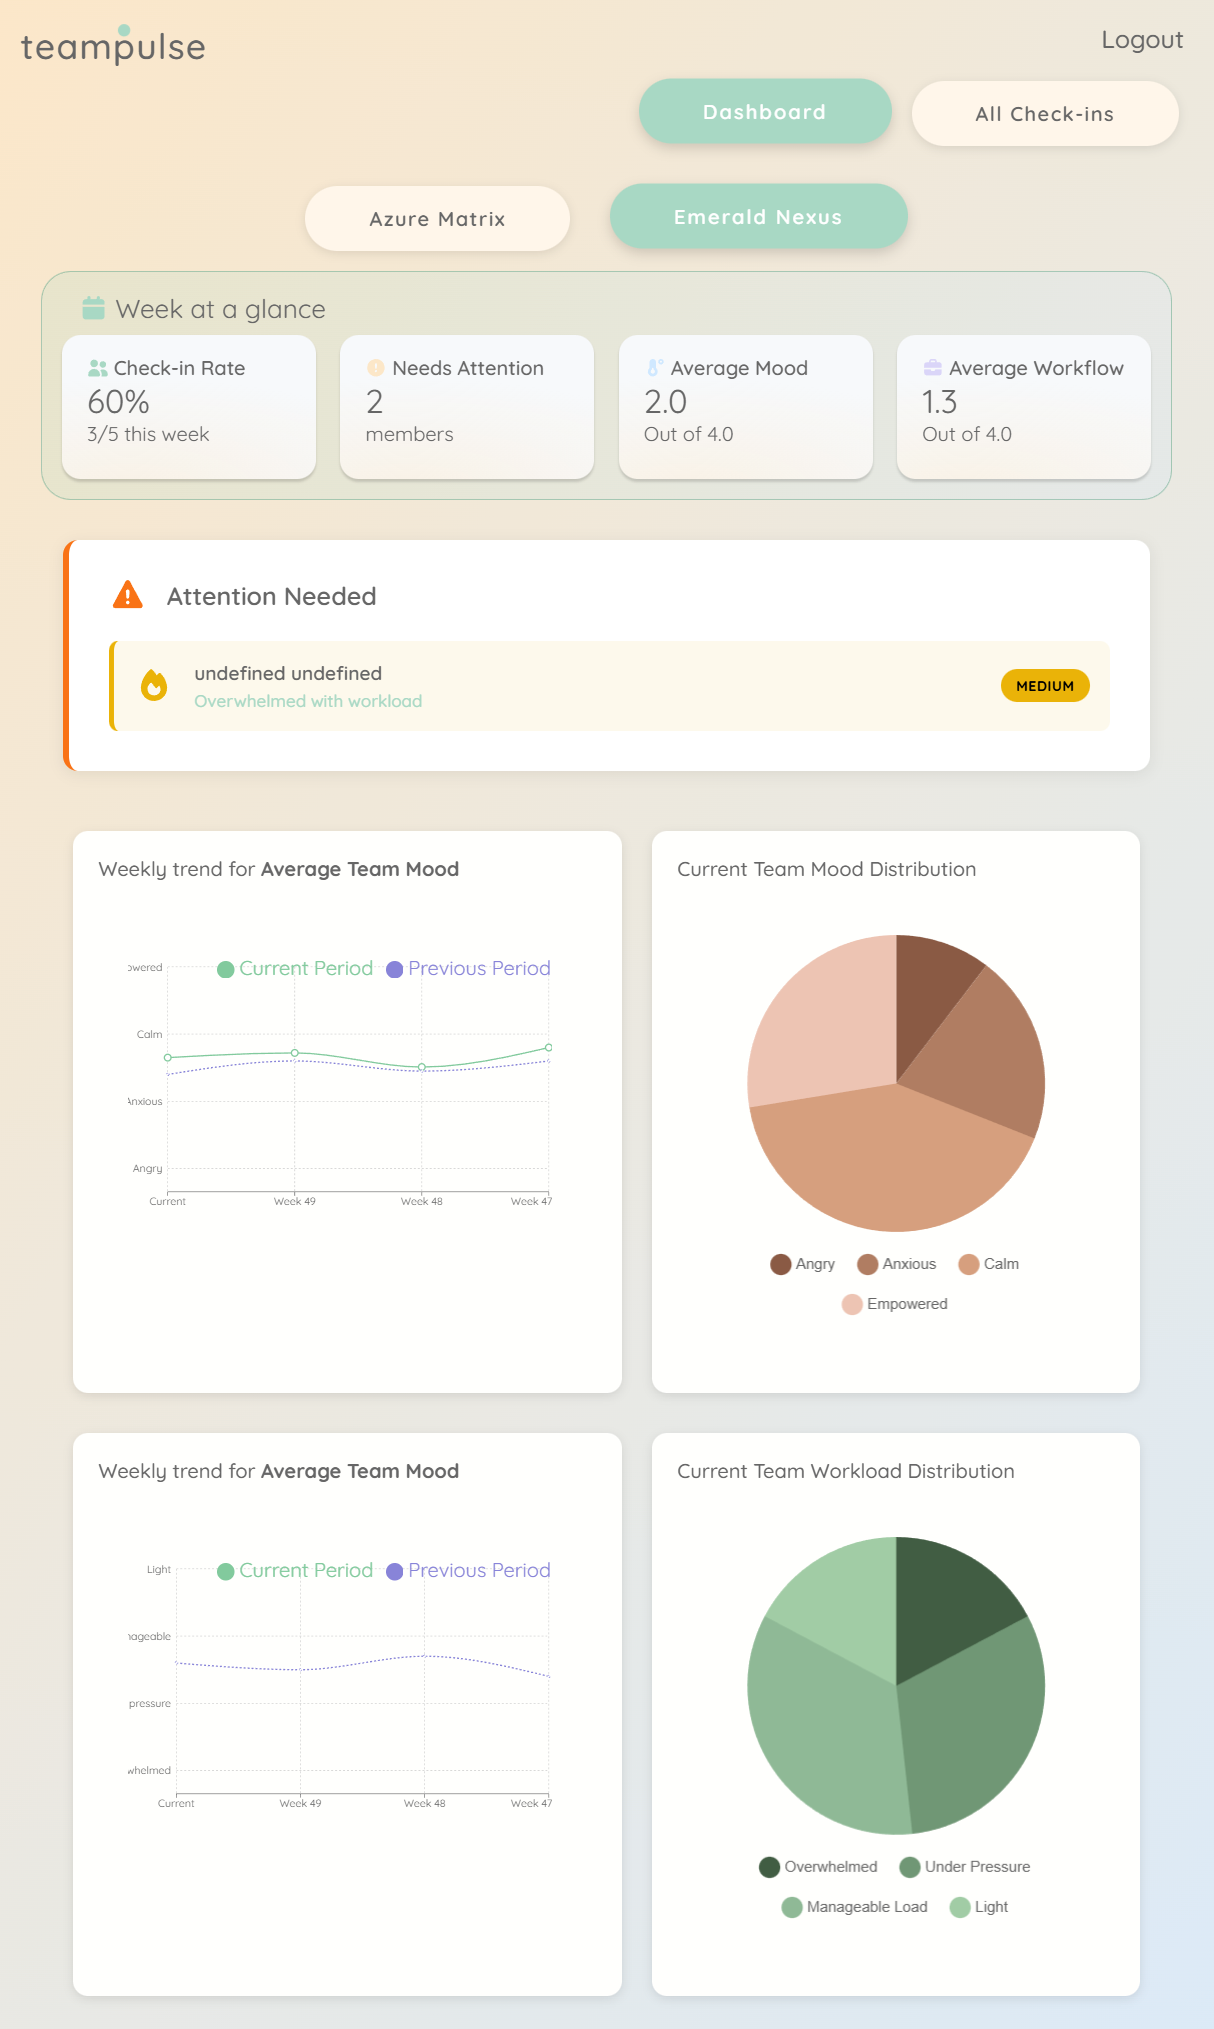
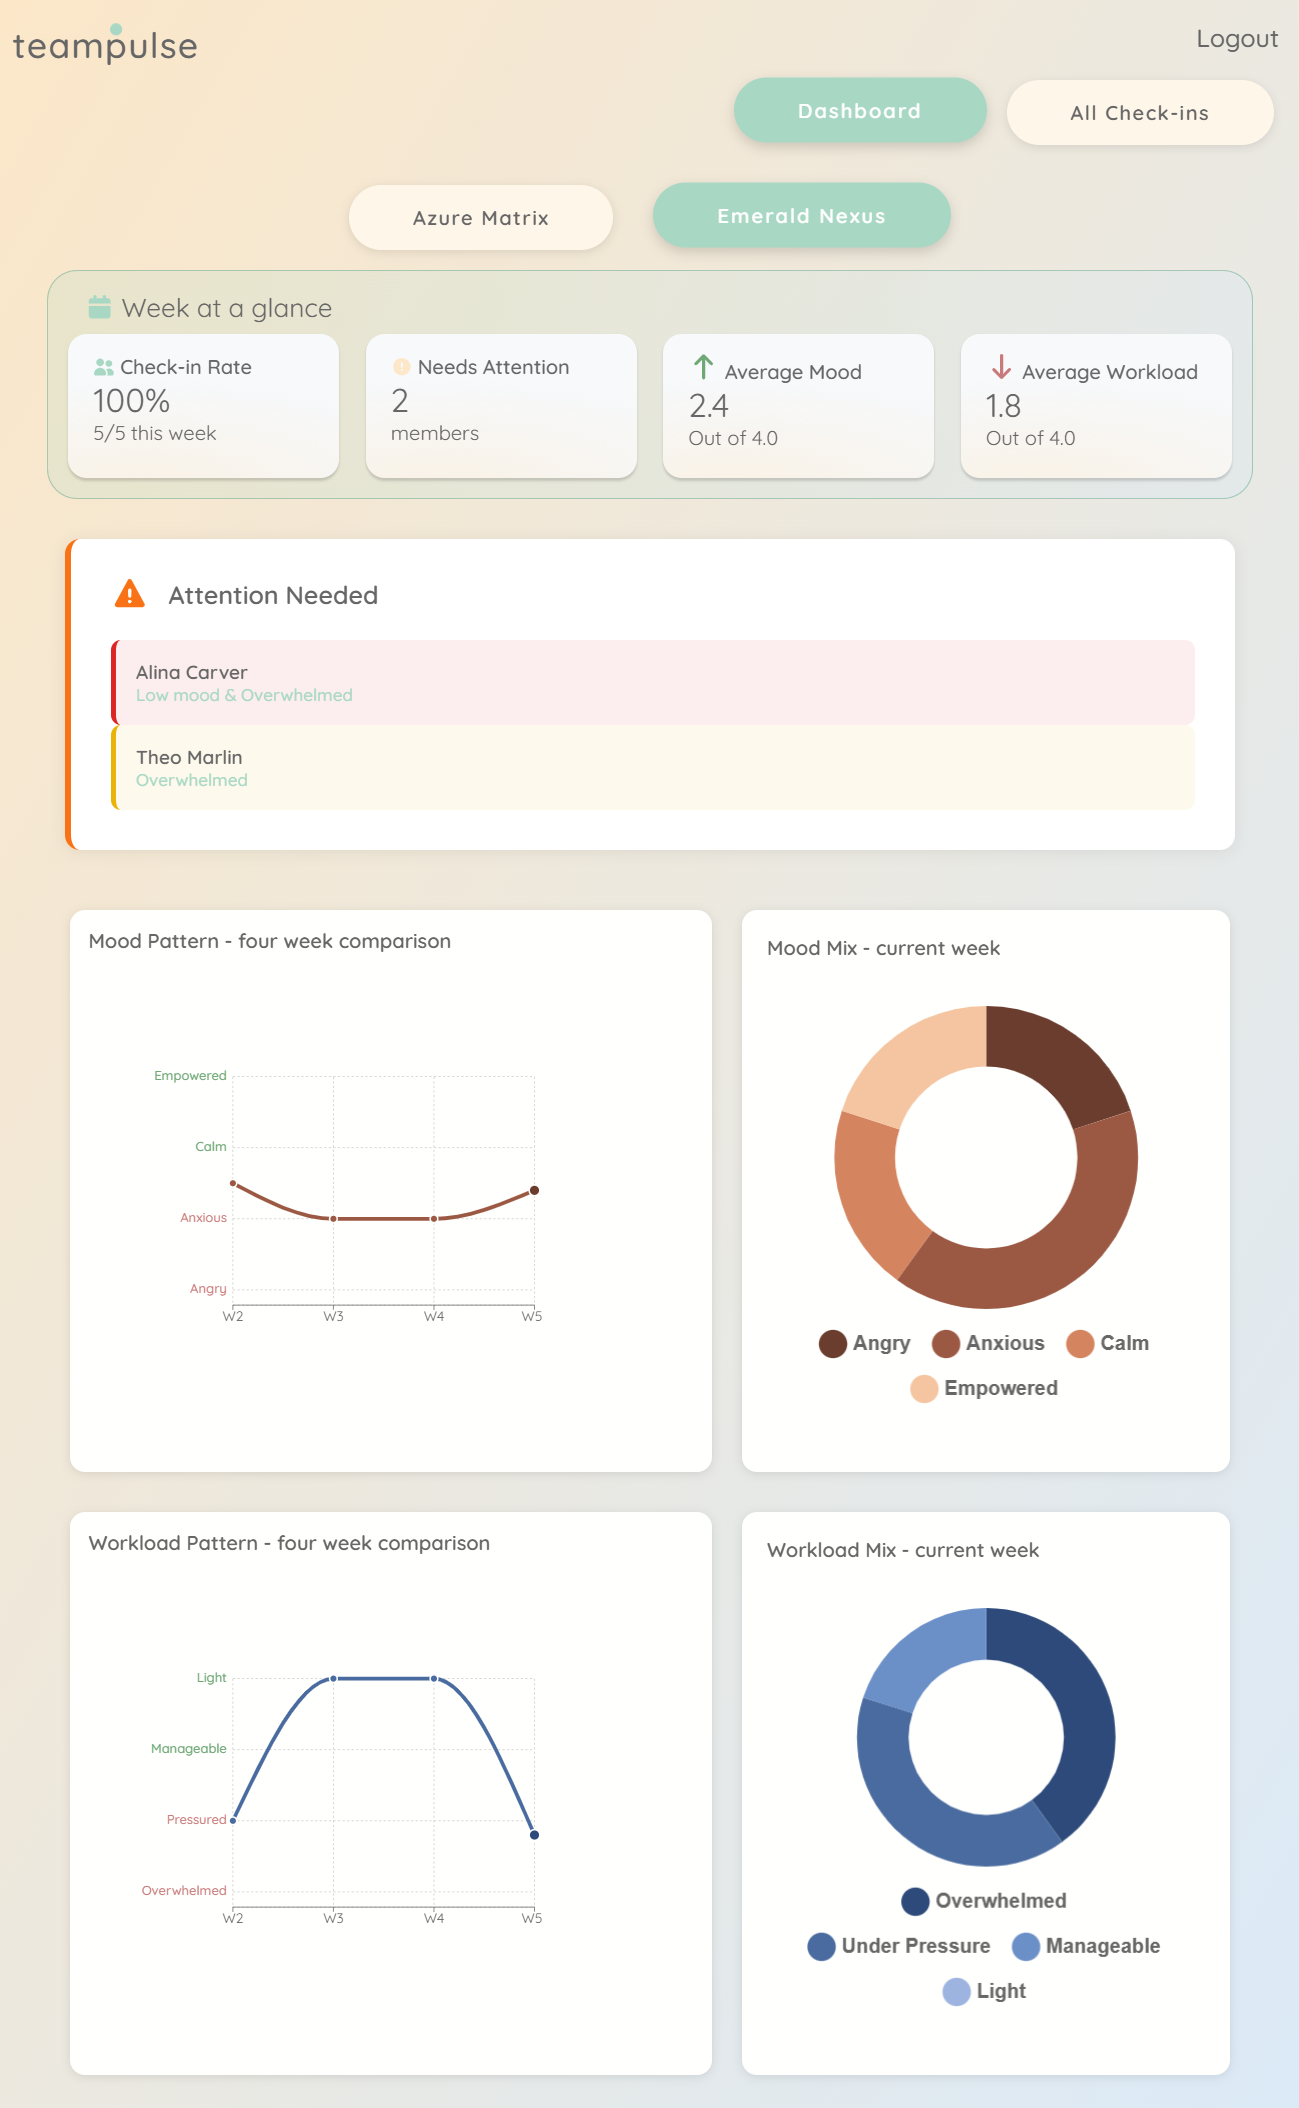
Updated group project page

diff --git a/group_project.html b/group_project.html
@@ -68,22 +68,50 @@
                     <p>When a normal user logged in, they're shown the 'Pulse' check in form. But when a manager logged in, 
                         they're shown a dashboard containing data visualisations of their team's logged data. This required
                         setting up different user roles and permissions in the backend, and then ensuring that the frontend
-                        displayed the correct information based on the user's role. Below are the 2 screenshots, for user and
+                        displayed the correct information based on the user's role. Below are screenshots, for user and
                         manager respectively.</p><br>
                     <ul style="list-style: disc; padding-left: 20px;">
                         <li>
+                            <strong>Login Page</strong>
+                            <br>
+                            <p>One logon page for both user and manager. Backend returned whether the user was a manager, and frontend displayed the appropriate view based on that information.</p><br>
+                            <img src="img/teampulse_images/00_Homepage.png" alt="Homepage screenshot" style="max-width: 100%; height: auto;"><br><br>
+                        </li><br>
+                        <li>
                             <strong>Home Page (General Mode)</strong>
                             <br>
+                            <p>Check-in form for user. Frontend designed this page with simplicity and usability in mind.</p><br>
                             <img src="img/teampulse_images/01_LandingPage_User.png" alt="User page for Pulse check in screenshot" style="max-width: 100%; height: auto;"><br><br>
+                        </li><br>
+                        <li>
+                            <strong>User Dashboard</strong>
+                            <br>
+                            <p>This was what a user would see after completing their check-in. The page would show their current user points and a graph representation of their recent check-ins.</p><br>
+                            <img src="img/teampulse_images/02_UserPage_01.png" alt="User Dashboard screenshot" style="max-width: 100%; height: auto;">
+                        </li><br>
+                        <li>
+                            <strong>User Dashboard - Details</strong>
+                            <br>
+                            <p>This page showed more detail for the user's check-ins, showing more data and user comments.</p><br>
+                            <img src="img/teampulse_images/02_UserPage_02.png" alt="User Dashboard Details screenshot" style="max-width: 100%; height: auto;">
+                        </li><br>
+                        <li>
+                            <strong>User Incentives</strong>
+                            <br>
+                            <p>This page showed the user's current points balance and their unlocked incentives.</p><br>
+                            <img src="img/teampulse_images/02_UserPage_03.png" alt="User Incentives screenshot" style="max-width: 100%; height: auto;">
                         </li><br>
                         <li>
                             <strong>Manager Dashboard</strong>
                             <br>
+                            <p>This was the manager's main view. It shows a summary of all teams they managed, the team's participation rate, trend and whether any team member required assistance.
+                                 Manager could filter by team, and could only see the team they managed.</p><br>
                             <img src="img/teampulse_images/01_LandingPage_Manager_a.png" alt="Manager Dashboard screenshot" style="max-width: 100%; height: auto;">
                         </li><br>
                         <li>
                             <strong>Manager List View of Team Pulse</strong>
                             <br>
+                            <p>This page showed check-in details which the manager could filter by team.</p><br>
                             <img src="img/teampulse_images/01_LandingPage_Manager_b.png" alt="Manager view of Team Pulse list screenshot" style="max-width: 100%; height: auto;">
                         </li>
                     </ul><br>
@@ -100,7 +128,7 @@
                     <h3>Weekly Limitations</h3><br>
                     <p>Notable challenge was in ensuring that a team member can only log their data once a week, defining
                         what a 'week' meant, and in displaying the data segregated by team as a manager can manage multiple
-                        teams. Discussion had around this topic started a lot of discussion about timezones, and what would
+                        teams. Discussions we had around this topic was centred around timezones, and what would
                      be defined as a "week". 2 people on opposite ends of the globe could be logging their Pulse at the same
                      time, and yet for one of them it's Sunday night and for the other it's Monday morning. Should the data be
                      logged against separate weeks?</p><br>
@@ -108,17 +136,43 @@
                         current week index was, JavaScript (the frontend) did not. This meant that we would had to implement this
                         in the front end, and frankly it was beginning to get very complicated. In the end, we decided to let the
                         frontend simply send the current date and time to the backend, and let the backend determine if the user had already
-                        logged their Pulse for the current week or not.
+                        logged their Pulse for the current week.
                      </p><br>
                      <p>The design for the database changed as well to accomodate this weekly check. Originally we were only going
                         to store the timestamp and calculate the week index on the fly, but this would had meant more calculations
                         and checks every time a user tried to log their Pulse. Instead, we decided to store the week index along with
-                        the timestamp, so that checking if a user had already logged their Pulse for the week would be a simple database query.
+                        the timestamp, so that checking if a user had already logged their Pulse for the week would be a simple database query. 
+                        This also made it easier to manipulate data for demo purposes, to generate more data than what was realitically possible 
+                        within the time frame of the project.
                      </p><br>
 
-                     <h3>Limiting The Number of Pulse Logs</h3>
+                     <h3>Limiting The Number of Pulse Logs</h3><br>
+                     <p>Another challenge was in determining how much data to return to the front end. If we used an example of 20 active users
+                        each logging their Pulse every week, over a year that's over 1000 entries. If a manager had multiple teams, this number could
+                        easily double or triple. Returning all this data to the front end every time a manager wanted to view their dashboard would be 
+                        inefficient and slow.
+                     </p><br>
+                     <p>To solve this, the POST method was written to accept optional parameter of weeks_total, which would limit the number of 
+                        weeks of data returned. So if a manager only wanted to see the last 4 weeks of data, they could specify weeks_total=4 
+                        in their request, and the backend would only return the relevant data. The method was also written to ignore any week
+                        for which there was no data lodged. This significantly reduced the amount of data being sent over the network, improving 
+                        performance and user experience.
+                        </p><br>
 
-
+                    <h3>Incentives/Gamification</h3><br>
+                    <p>To encourage users to log their Pulse regularly, an incentives system was implemented. Users would earn points
+                        for each Pulse logged, with bonus points for consecutive weeks of logging. As this feature was implemented fairly late, it
+                         was too complicated to implement this logic in the backend and doing back calculations for data that had already been logged. 
+                         We agreed to implement this logic in the frontend instead, relying on the front end to do the calculation and telling the
+                         backend what points to update the user record to.
+                     </p><br>
+                     <p>This was not ideal as it opened up the possibility of users manipulating their points by sending false data to the backend.
+                        However, given the time constraints and the complexity of implementing this logic in the backend, we ignored this risk. 
+                        Future iterations of the project could look into implementing this logic in the backend to ensure data integrity.
+                     </p><br>
+                     <p>One notable feature was the POST method. We overloaded the POST method to create a new user_points record if none existed 
+                        for a given user_id. Otherwise, it would update the existing record with the new points value. This was done with the aim of
+                    making sure that there was ever only 1 record for each user_id.</p>
                 </div>
             </div>
         </section>

diff --git a/personal_project.html b/personal_project.html
@@ -129,7 +129,9 @@
                         were many different elements that needed to change based on the user's login status.</p><br>
                     <p>Harder than both of the above, was coming up with the campaign descriptions. I had grand ideas of putting in different villains from 
                         various media, but it was starting to take up more time than actual coding so I settled for the few I've already had.
-                    </p>
+                    </p><br>
+                    <p>If you read all the way through, thank you! I appreciate you reading this, please come to me and say the phrase "The quick brown 
+                        fox wasn't lazy" and I'll give you a gift (of which I have only a few).</p>
                 </div>
             </div>
         </section>
